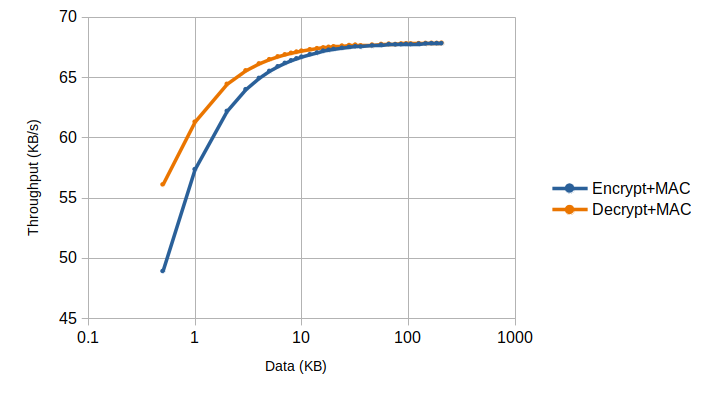
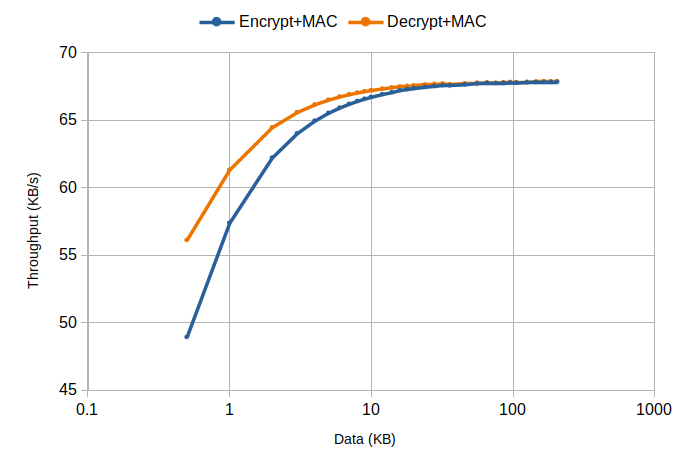
Buffer size tests writeup and conclusions

diff --git a/Chapters/Thesis-MSc-Chapter_6.tex b/Chapters/Thesis-MSc-Chapter_6.tex
@@ -46,7 +46,7 @@ The performance, in miliseconds, can be modelled by a linear equation with value
 
 \begin{figure}[h!]
 	\centering
-	\includegraphics[width=0.8\textwidth]{./Images/comms-time.png}
+	\includegraphics[width=0.7\textwidth]{./Images/comms-time.png}
 	\caption{Serial Port data transmission times}
 	\label{fig:comms:time}
 \end{figure}
@@ -58,7 +58,7 @@ We can conclude the practical throughput is close to the theoretical, and as exp
 
 \begin{figure}[h!]
 	\centering
-	\includegraphics[width=0.8\textwidth]{./Images/comms-tput.png}
+	\includegraphics[width=0.7\textwidth]{./Images/comms-tput.png}
 	\caption{Serial port data transmission throughput}
 	\label{fig:comms:tput}
 \end{figure}
@@ -93,7 +93,7 @@ The TRNG service was tested by generating 16 bytes up to the maximum allowed by 
 
 \begin{figure}[h!]
 	\centering
-	\includegraphics[width=0.9\textwidth]{./Images/core-tput.png}
+	\includegraphics[width=0.7\textwidth]{./Images/core-tput.png}
 	\caption{Security services throughput evolution}
 	\label{fig:performance:core-tput}
 \end{figure}
@@ -109,7 +109,7 @@ For this reason, a lightweight implementation of HMAC, SHA and AES was included 
 
 \begin{figure}[h!]
 	\centering
-	\includegraphics[width=0.9\textwidth]{./Images/software-core-time.png}
+	\includegraphics[width=0.7\textwidth]{./Images/software-core-time.png}
 	\caption{Performance comparison of board's cores to a software implementation}
 	\label{fig:performance:software-core-time}
 \end{figure}
@@ -136,7 +136,7 @@ The RAM write performance is comparable to the NVM read performance. The RAM rea
 \subsection{Implemented Services}\label{chap:evaluation:services}
 
 All implemented services from chapter \ref{chap:implementation} were tested from a data size of 0.5 KB to 36 KB. Each service performance depends on the used accelerator's, among other factors such as memory access for reads and writes or additional code logic.
-Four implemented services were tested, encryption and authentication, decryption and authentication, the import keys service, all three using the \ac{AES} and \ac{HMAC} accelerators, \ac{ECDSA} and \ac{ECDH}, both using the \ac{ECC} scalar multiplication accelerator. It is worth noting the encryption service also uses the \ac{TRNG} service to generate a random \ac{IV}. The first set of encryption and decryption services tested were the first version version using CTR mode and the board's MAC core. The second set is the continuous encryption and decryption service using CBC and the HMAC software implementation. The second set was tested with data size up to 200 KB.
+Four implemented services were tested, encryption and authentication, decryption and authentication, the import keys service, all three using the \ac{AES} accelerator and \ac{HMAC} library, \ac{ECDSA} and \ac{ECDH}, both using the \ac{ECC} scalar multiplication accelerator. It is worth noting the encryption service also uses the \ac{TRNG} service to generate a random \ac{IV}. The continuous encryption and decryption services, used AES in CBC mode and the HMAC software implementation. It was tested with data size up to 200 KB.
 Similarly to the previous core tests results, the time performance results evolve linearly and the equation components for each service were calculated using the linear regression algorithm. The obtained values are presented in table \ref{tab:services-model}.
 
 \input{tables_and_code/services-model.tex}
@@ -153,22 +153,33 @@ The median average percentage error for the encryption/decryption and MAC and \a
 
 \begin{figure}[h!]
 	\centering
-	\includegraphics[width=0.9\textwidth]{./Images/services-tput.png}
+	\includegraphics[width=0.7\textwidth]{./Images/services-tput.png}
 	\caption{Implemented services throughput evolution}
 	\label{fig:performance:services-tput}
 \end{figure}
 
 Figure \ref{fig:performance:services-tput} plots the results for throughput (KB/s) for the implemented services.
 The throughput for encrypt/decryption with the MAC core stabilizes at around 52.5 Kb/s, while the better performing continuous version stabilizes at around 67 Kb/s.
-
-The continuous encryption/decryption implementation brings another efficiency problem. A buffer size must be chosen. All the previous tests have been performed with a buffer of 36 KB. A higher buffer size must
+The continuous encryption/decryption implementation raises an engineering question. An optimal buffer size must be chosen. All previous tests had a buffer of 36 KB.
+To better answer this topic, the buffer size impact on performance must be analysed.
+This was achieved by performing the same test on the continuous encryption service, with varying buffer sizes, from 0.1 KB up to 35 KB. Picture \ref{fig:performance:buffer-tput} shows the average throughput for each buffer size. The vertical bars display the maximum and minimum throughput for buffer value.
+All tests revealed the same performance behaviour as the previous test with a 36 KB buffer. The worst performance is achieved with low data sizes of 0.5 KB. The time evolution is linear, and the throughput eventually stabilizes around the maximum value with data sizes higher than 20 KB.
 
 \begin{figure}[h!]
 	\centering
-	\includegraphics[width=0.9\textwidth]{./Images/buffer-overhead.png}
-	\caption{Implemented services throughput evolution}
-	\label{fig:performance:buffer-overhead}
+	\includegraphics[width=0.7\textwidth]{./Images/buffer-tput.png}
+	\caption{Continuous encryption throughput evolution with different buffer sizes}
+	\label{fig:performance:buffer-tput}
 \end{figure}
+
+% \begin{figure}[h!]
+%         \centering     %%% not \center
+%         \subfigure[Constant component overhead \% of total performance]{\label{fig:performance:buffer-overhead}\includegraphics[width=79mm]{./Images/buffer-overhead.png}}
+%         \subfigure[Throughput evolution from buffer size]{\label{fig:performance:buffer-tput}\includegraphics[width=79mm]{./Images/buffer-tput.png}}
+%         \caption{Buffer size overhead and throughput evolution}
+% \end{figure}
+
+Analysing the throughput evolution, it significantly increases from 128 B up until 5 KB, after which, the average throughput stabilizes around 66 KB/s, the maximum at 68 KB/s and the minimum around 49.5 KB/s. If the goal is to maximize throughput, there is no advantage in using a buffer bigger than 10 KB. Even a 5 KB buffer has almost identical performance. Additional trade-offs can be implemented if the size of the data which will pass through the system is known. For higher data sizes where the maximum throughput is achieved, the optimal buffer size of 5 KB or 10 KB. However, if the system will mainly receive small amounts, around 0.5 KB, the minimum throughput evolution is relevant. The minimum throughput does not increase from a 0.5 KB buffer up to a  35 KB buffer. For this situation, if memory space is needed, a 0.5 KB buffer is acceptable. The extra saved memory can be used for more implemented functionalities.
 
 
 % TODO
